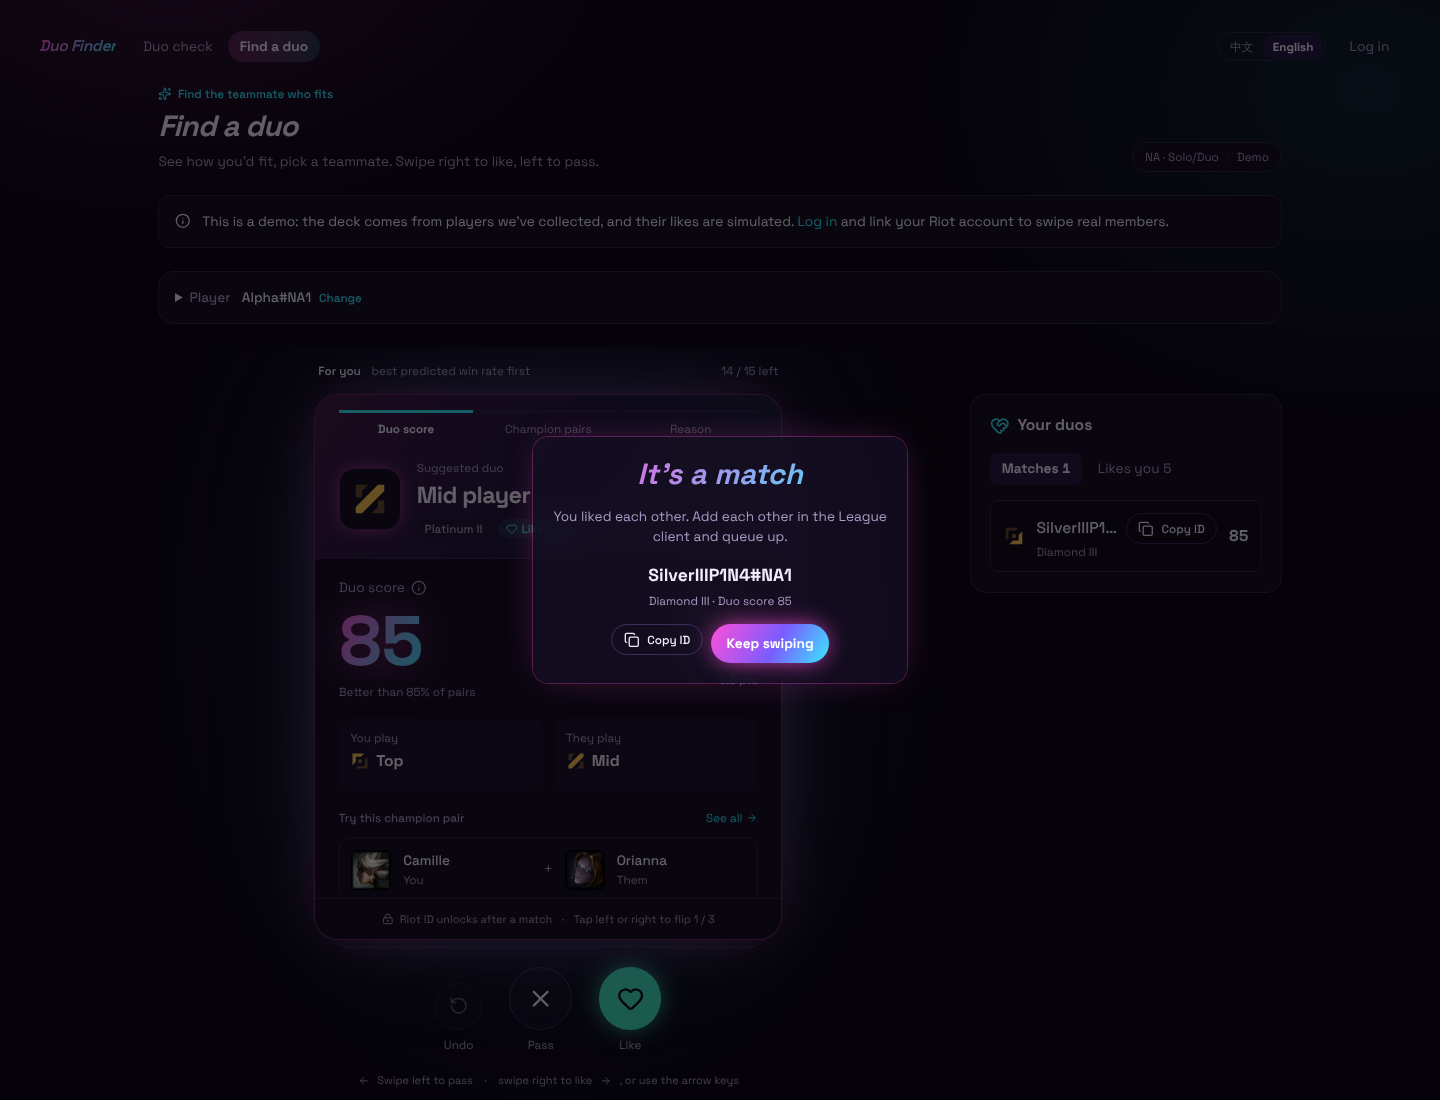
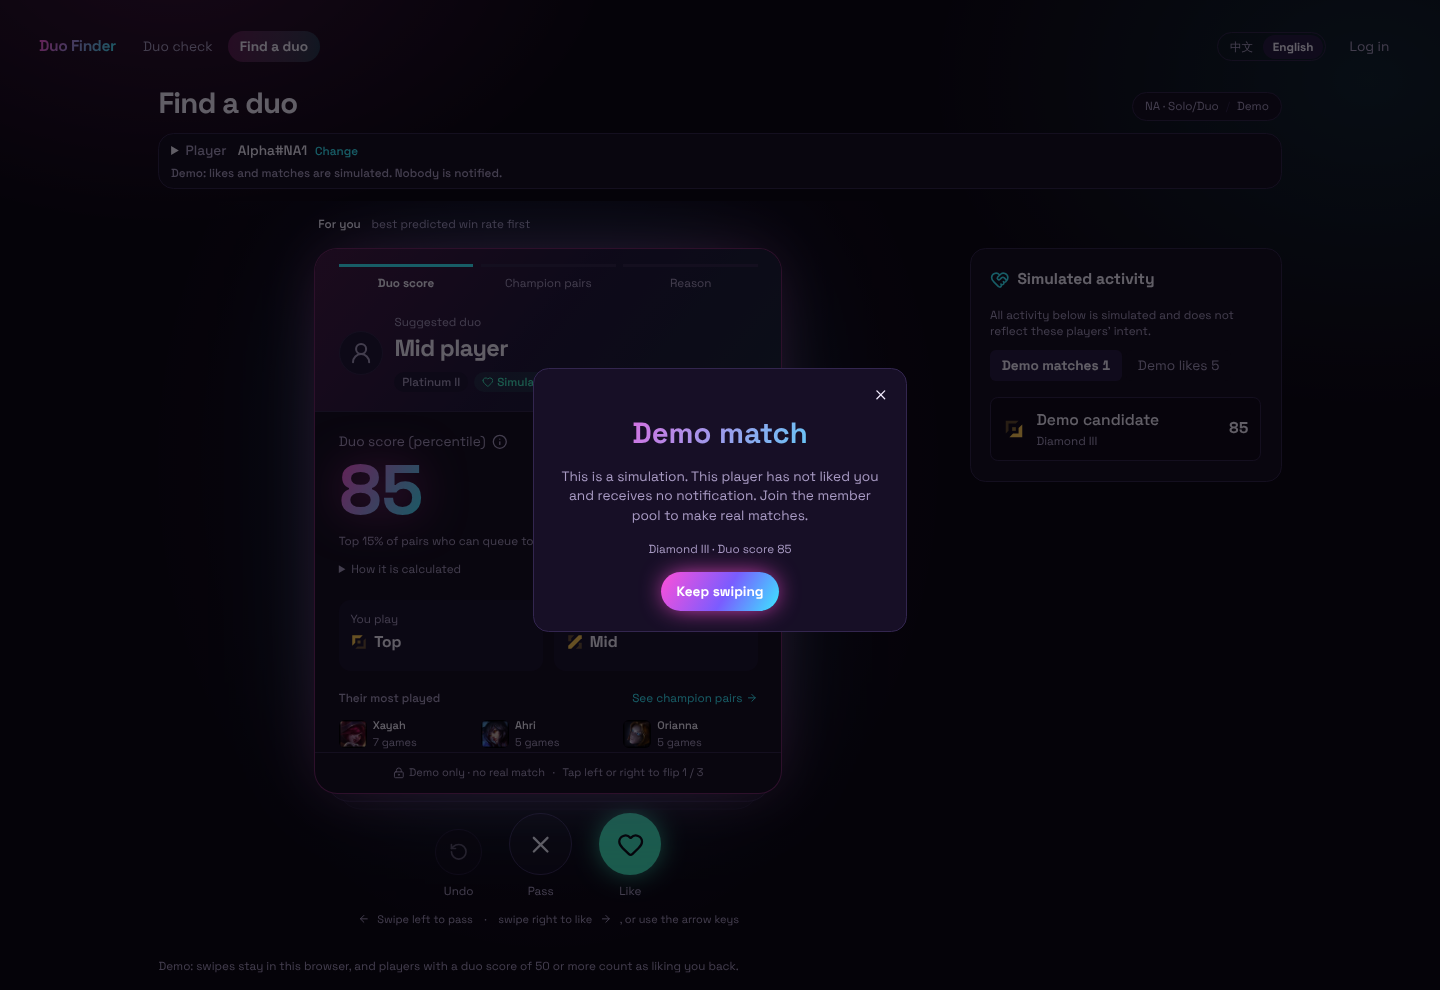
docs: regenerate README screenshots for the current UI
Claude-Session: https://claude.ai/code/session_01QD55jcYGyRugCVjo9SM16t

diff --git a/README.md b/README.md
@@ -2,14 +2,15 @@
 
 A teammate finder for League of Legends players on NA. Check how two players fit together, explore champion combinations, and swipe to find someone to queue with, from match history to a mutual like.
 
-![Duo check: duo score, predicted win rate, suggested roles and best champion pairs](docs/screenshots/duo-check.png)
+![Home page: product introduction with paths to the swipe deck and the free duo check](docs/screenshots/home.png)
 
 *Screenshots show the actual site running locally on synthetic demo data (`data/fake_riot.py`). Players and scores are illustrative.*
 
 ## What's on the site
 
-- **Home and duo check (`/`)**: a product introduction with paths to the swipe demo and a free two-player check. Enter two Riot IDs to see a 0–100 duo score, the predicted win rate, suggested roles and recommended champion pairs. Cold lookups show player identity and rank first, then actual match-loading progress. Copy a link to share the result.
-- **Find a duo (`/find`)**: a swipe deck ranked by predicted win rate. Each card flips through duo score, champion pairs and reasons; swipe, drag or use the arrow keys to like or pass, and undo your last pass. Visitors get a browser-local demo with simulated likes. Logged-in members who link a Riot ID and turn on “Recommend me” swipe real members.
+- **Home and duo check (`/`)**: a product introduction with paths to the swipe deck and a free two-player check. Enter two Riot IDs to see a 0–100 duo score shown as a percentile (“Top 33% of pairs who can queue together”), suggested roles and recommended champion pairs. “How it is calculated” opens the predicted win rate and how far it is above or below your solo average. Cold lookups show player identity and rank first, then actual match-loading progress. Copy a link to share the result.
+- **Find a duo (`/find`)**: a swipe deck ranked by predicted win rate. Each card flips through duo score, the other player's most played champions and champion pairs, and reasons; swipe, drag or use the arrow keys to like or pass, and undo your last pass. Visitors get a browser-local demo where every like, match and count is clearly labelled as simulated. Members who link a Riot ID and opt in swipe real members.
+- **Getting started (`/welcome`)**: right after linking a Riot ID, a two-step setup asks for up to two roles, then for explicit consent to join the recommendation pool, and drops you into the real deck.
 - **Matches**: Riot IDs stay hidden on cards until both members like each other. Matches and “likes you” show next to the deck, with optional Discord DM notifications. Members can block or report, and admins review reports at `/admin`.
 - **Player pages (`/player/Name-NA1`)**: rank, most played champions and recent ranked games, with a shortcut to check your duo with that player. Players with fewer than 20 ranked games can pick their champions and roles by hand.
 - **Accounts**: log in with Discord, link a Riot ID (marked *Unverified* until Riot Sign On is available, see [ADR-0011](docs/adr/0011-bind-riot-id-unverified-until-rso.md)), choose any summoner icon as your avatar, and add a bio, languages, voice preference, play times and a temporary “Looking now” status.
@@ -17,21 +18,23 @@ A teammate finder for League of Legends players on NA. Check how two players fit
 
 Match statistics are scoped to **NA Ranked Solo/Duo (queue 420)**.
 
-| Find a duo | It's a match |
+| Duo check | Find a duo |
 | --- | --- |
-| ![Swipe deck with a suggested duo card](docs/screenshots/find.png) | ![Match dialog revealing the other player's Riot ID](docs/screenshots/match.png) |
+| ![Duo check result: duo score percentile, both players and the best champion pairs](docs/screenshots/duo-check.png) | ![Swipe deck with a suggested duo card and simulated activity](docs/screenshots/find.png) |
 
-| Player page | Log in |
+| Demo match | Two-step setup after linking |
 | --- | --- |
-| ![Player page with most played champions and recent games](docs/screenshots/player.png) | ![Login page](docs/screenshots/login.png) |
+| ![Demo match dialog, labelled as a simulation](docs/screenshots/match.png) | ![Welcome wizard: choose your roles, then join the recommendation pool](docs/screenshots/welcome.png) |
 
-<p align="center"><img src="docs/screenshots/find-phone.png" alt="Swipe deck on a phone" width="300"></p>
+| Player page | On a phone |
+| --- | --- |
+| ![Player page with most played champions and recent games](docs/screenshots/player.png) | <img src="docs/screenshots/find-phone.png" alt="Swipe deck on a phone" width="300"> |
 
 ## How the score works
 
 The prediction model combines player champion proficiency, champion strength, and champion-pair synergy using an Elo-based approach adapted from [DraftGap](https://github.com/vigovlugt/draftgap).
 
-The **duo score** expresses the predicted win rate as a percentile of a fitted distribution of eligible pairs in the recommendation pool with the same two positions ([ADR-0010](docs/adr/0010-score-within-same-positions.md)). The fitted scale is stored in the database, refitted daily and loaded by the API at startup. A score of 50 represents a typical pair in that distribution. It measures how two players fit together; it is not an individual skill or hidden MMR rating, and an 84 duo score does not mean an 84% chance of winning.
+The **duo score** expresses the predicted win rate as a percentile of a fitted distribution of eligible pairs in the recommendation pool with the same two positions ([ADR-0010](docs/adr/0010-score-within-same-positions.md)). The fitted scale is stored in the database, refitted daily and loaded by the API at startup. A score of 50 represents a typical pair in that distribution. The API's `reasons` give each term's effect in win-rate percentage points compared with leaving that term out. It measures how two players fit together; it is not an individual skill or hidden MMR rating, and an 84 duo score does not mean an 84% chance of winning.
 
 Pair statistics cover any two players on the same team, whether they queued together or were matched by the game. See the [model decision](docs/adr/0001-draftgap-style-rating-model.md) and [pair definition](docs/adr/0002-pair-means-any-teammates.md).
 
